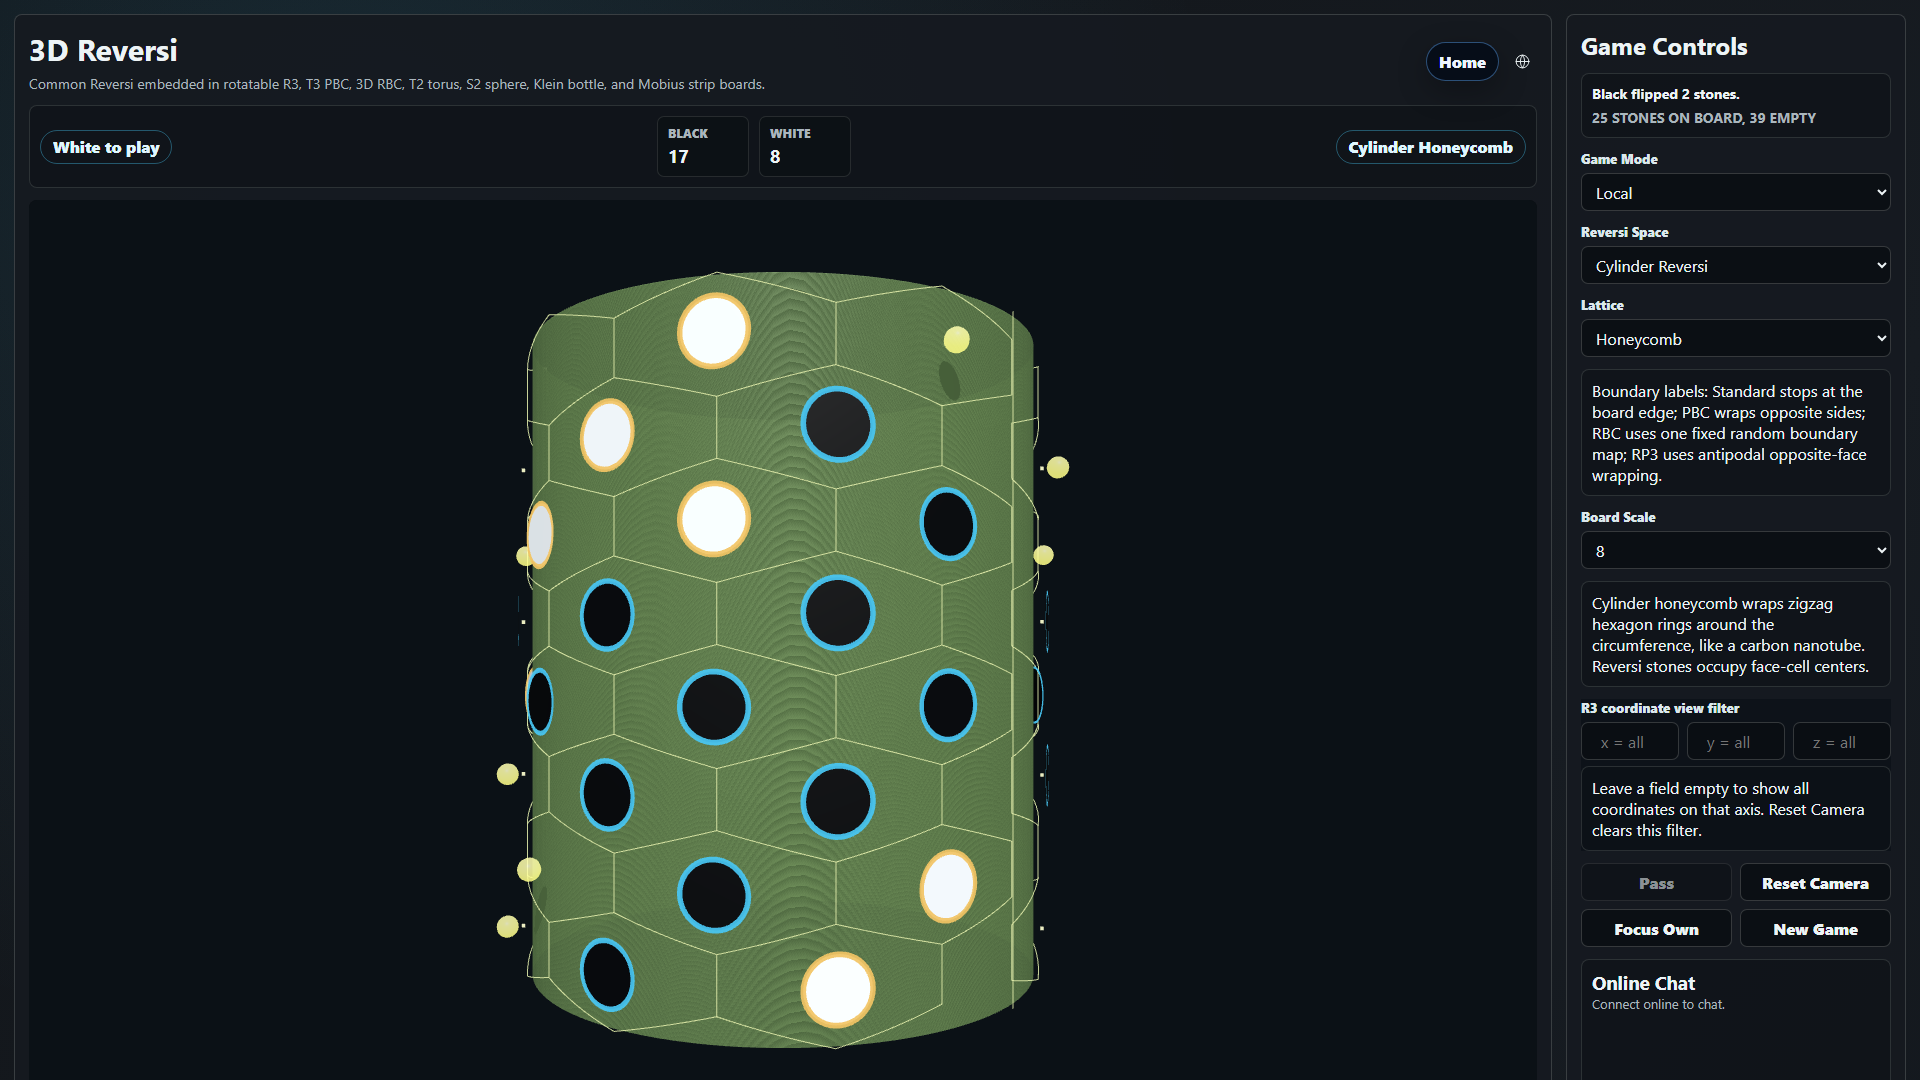
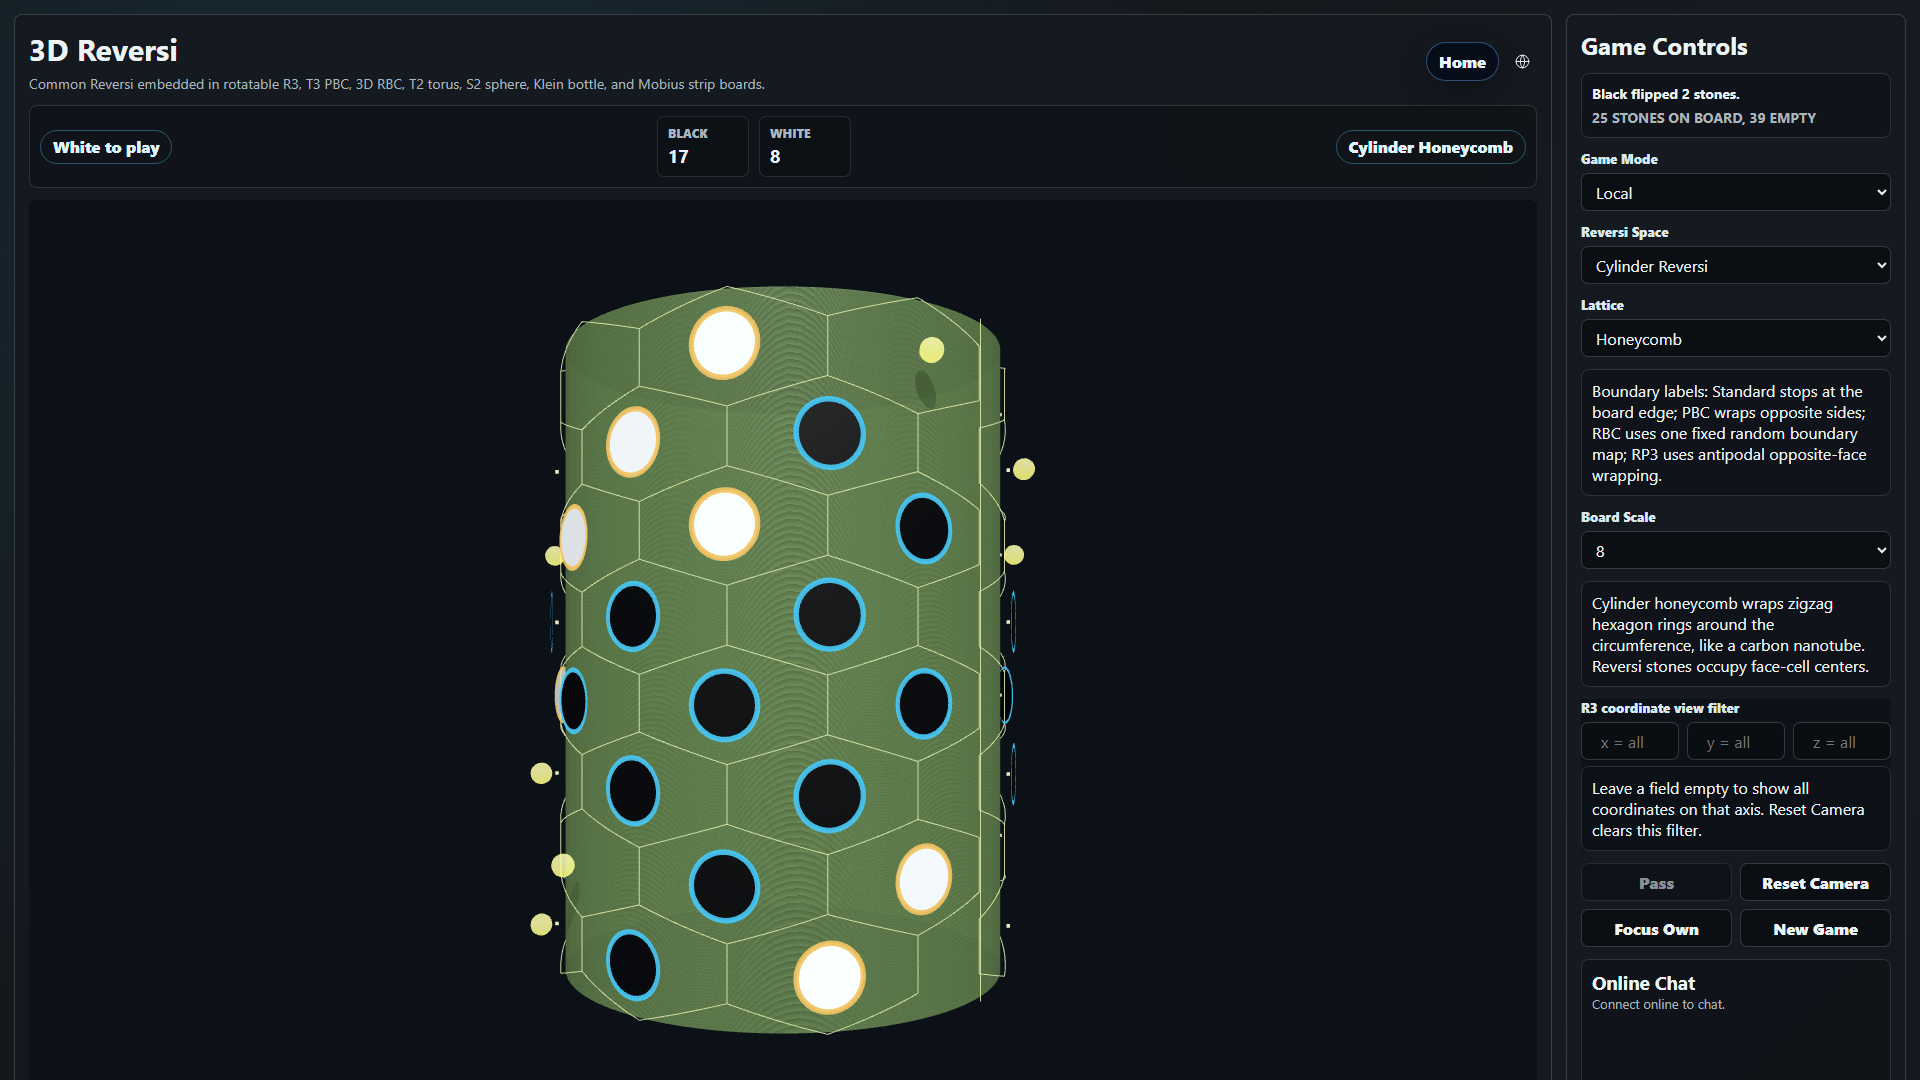
Tune honeycomb cylinder seam radius

Changed region(s): [[0.25, 0.2444, 0.5625, 0.9778]]

diff --git a/3D/3dreversi/js/main.js b/3D/3dreversi/js/main.js
@@ -20,6 +20,7 @@ import {
 
 const TWO_PI = Math.PI * 2;
 const CYLINDER_RADIUS = 2.38;
+const HONEYCOMB_CYLINDER_RADIUS = 2.08;
 const CYLINDER_HEIGHT = 5.8;
 const MOBIUS_BAND_RADIUS = 3.45;
 const MOBIUS_BAND_HALF_WIDTH = 1.86;
@@ -285,8 +286,11 @@ class Reversi3DRenderer {
     }
 
     buildCylinder(width, height, lattice = 'square') {
+        const surfaceRadius = lattice === HONEYCOMB_LATTICE
+            ? HONEYCOMB_CYLINDER_RADIUS
+            : CYLINDER_RADIUS;
         const surface = new THREE.Mesh(
-            new THREE.CylinderGeometry(CYLINDER_RADIUS, CYLINDER_RADIUS, CYLINDER_HEIGHT, 128, 1, true),
+            new THREE.CylinderGeometry(surfaceRadius, surfaceRadius, CYLINDER_HEIGHT, 128, 1, true),
             new THREE.MeshPhysicalMaterial({
                 color: 0x6f8e56,
                 roughness: 0.58,
@@ -1165,6 +1169,7 @@ class Reversi3DRenderer {
             radius,
             dx,
             dy,
+            cylinderRadius: HONEYCOMB_CYLINDER_RADIUS,
             periodX: Math.max(1, Math.sqrt(3) * (width + (height > 1 ? 0.5 : 0))),
             periodY: Math.max(1, 1.5 * (height - 1) + 2),
             minY: 0,
@@ -1188,7 +1193,7 @@ class Reversi3DRenderer {
         }
         const span = Math.max(1e-6, metrics.maxY - metrics.minY);
         const band = THREE.MathUtils.clamp((point.y - metrics.minY) / span, 0, 1);
-        return this.cylinderPointFromUV({ u, band }, lift);
+        return this.cylinderPointFromUV({ u, band }, lift, metrics.cylinderRadius);
     }
 
     honeycombSurfacePose(coord, width, height, surface, lift = 0.08) {
@@ -1208,7 +1213,7 @@ class Reversi3DRenderer {
         }
         const band = THREE.MathUtils.clamp((center.y - metrics.minY) / Math.max(1e-6, metrics.maxY - metrics.minY), 0, 1);
         return {
-            position: this.cylinderPointFromUV({ u, band }, lift),
+            position: this.cylinderPointFromUV({ u, band }, lift, metrics.cylinderRadius),
             normal: new THREE.Vector3(Math.cos(u), 0, Math.sin(u)).normalize()
         };
     }
@@ -1294,7 +1299,7 @@ class Reversi3DRenderer {
             points.push(this.cylinderPointFromUV({
                 u: 0,
                 band: step / segments
-            }, lift + 0.012));
+            }, lift + 0.012, metrics.cylinderRadius));
         }
         this.appendPolyline(linePositions, points);
         return linePositions;
@@ -1326,8 +1331,8 @@ class Reversi3DRenderer {
         );
     }
 
-    cylinderPointFromUV(uv, lift = 0) {
-        const radius = CYLINDER_RADIUS + lift;
+    cylinderPointFromUV(uv, lift = 0, baseRadius = CYLINDER_RADIUS) {
+        const radius = baseRadius + lift;
         const y = (0.5 - uv.band) * CYLINDER_HEIGHT;
         return new THREE.Vector3(radius * Math.cos(uv.u), y, radius * Math.sin(uv.u));
     }